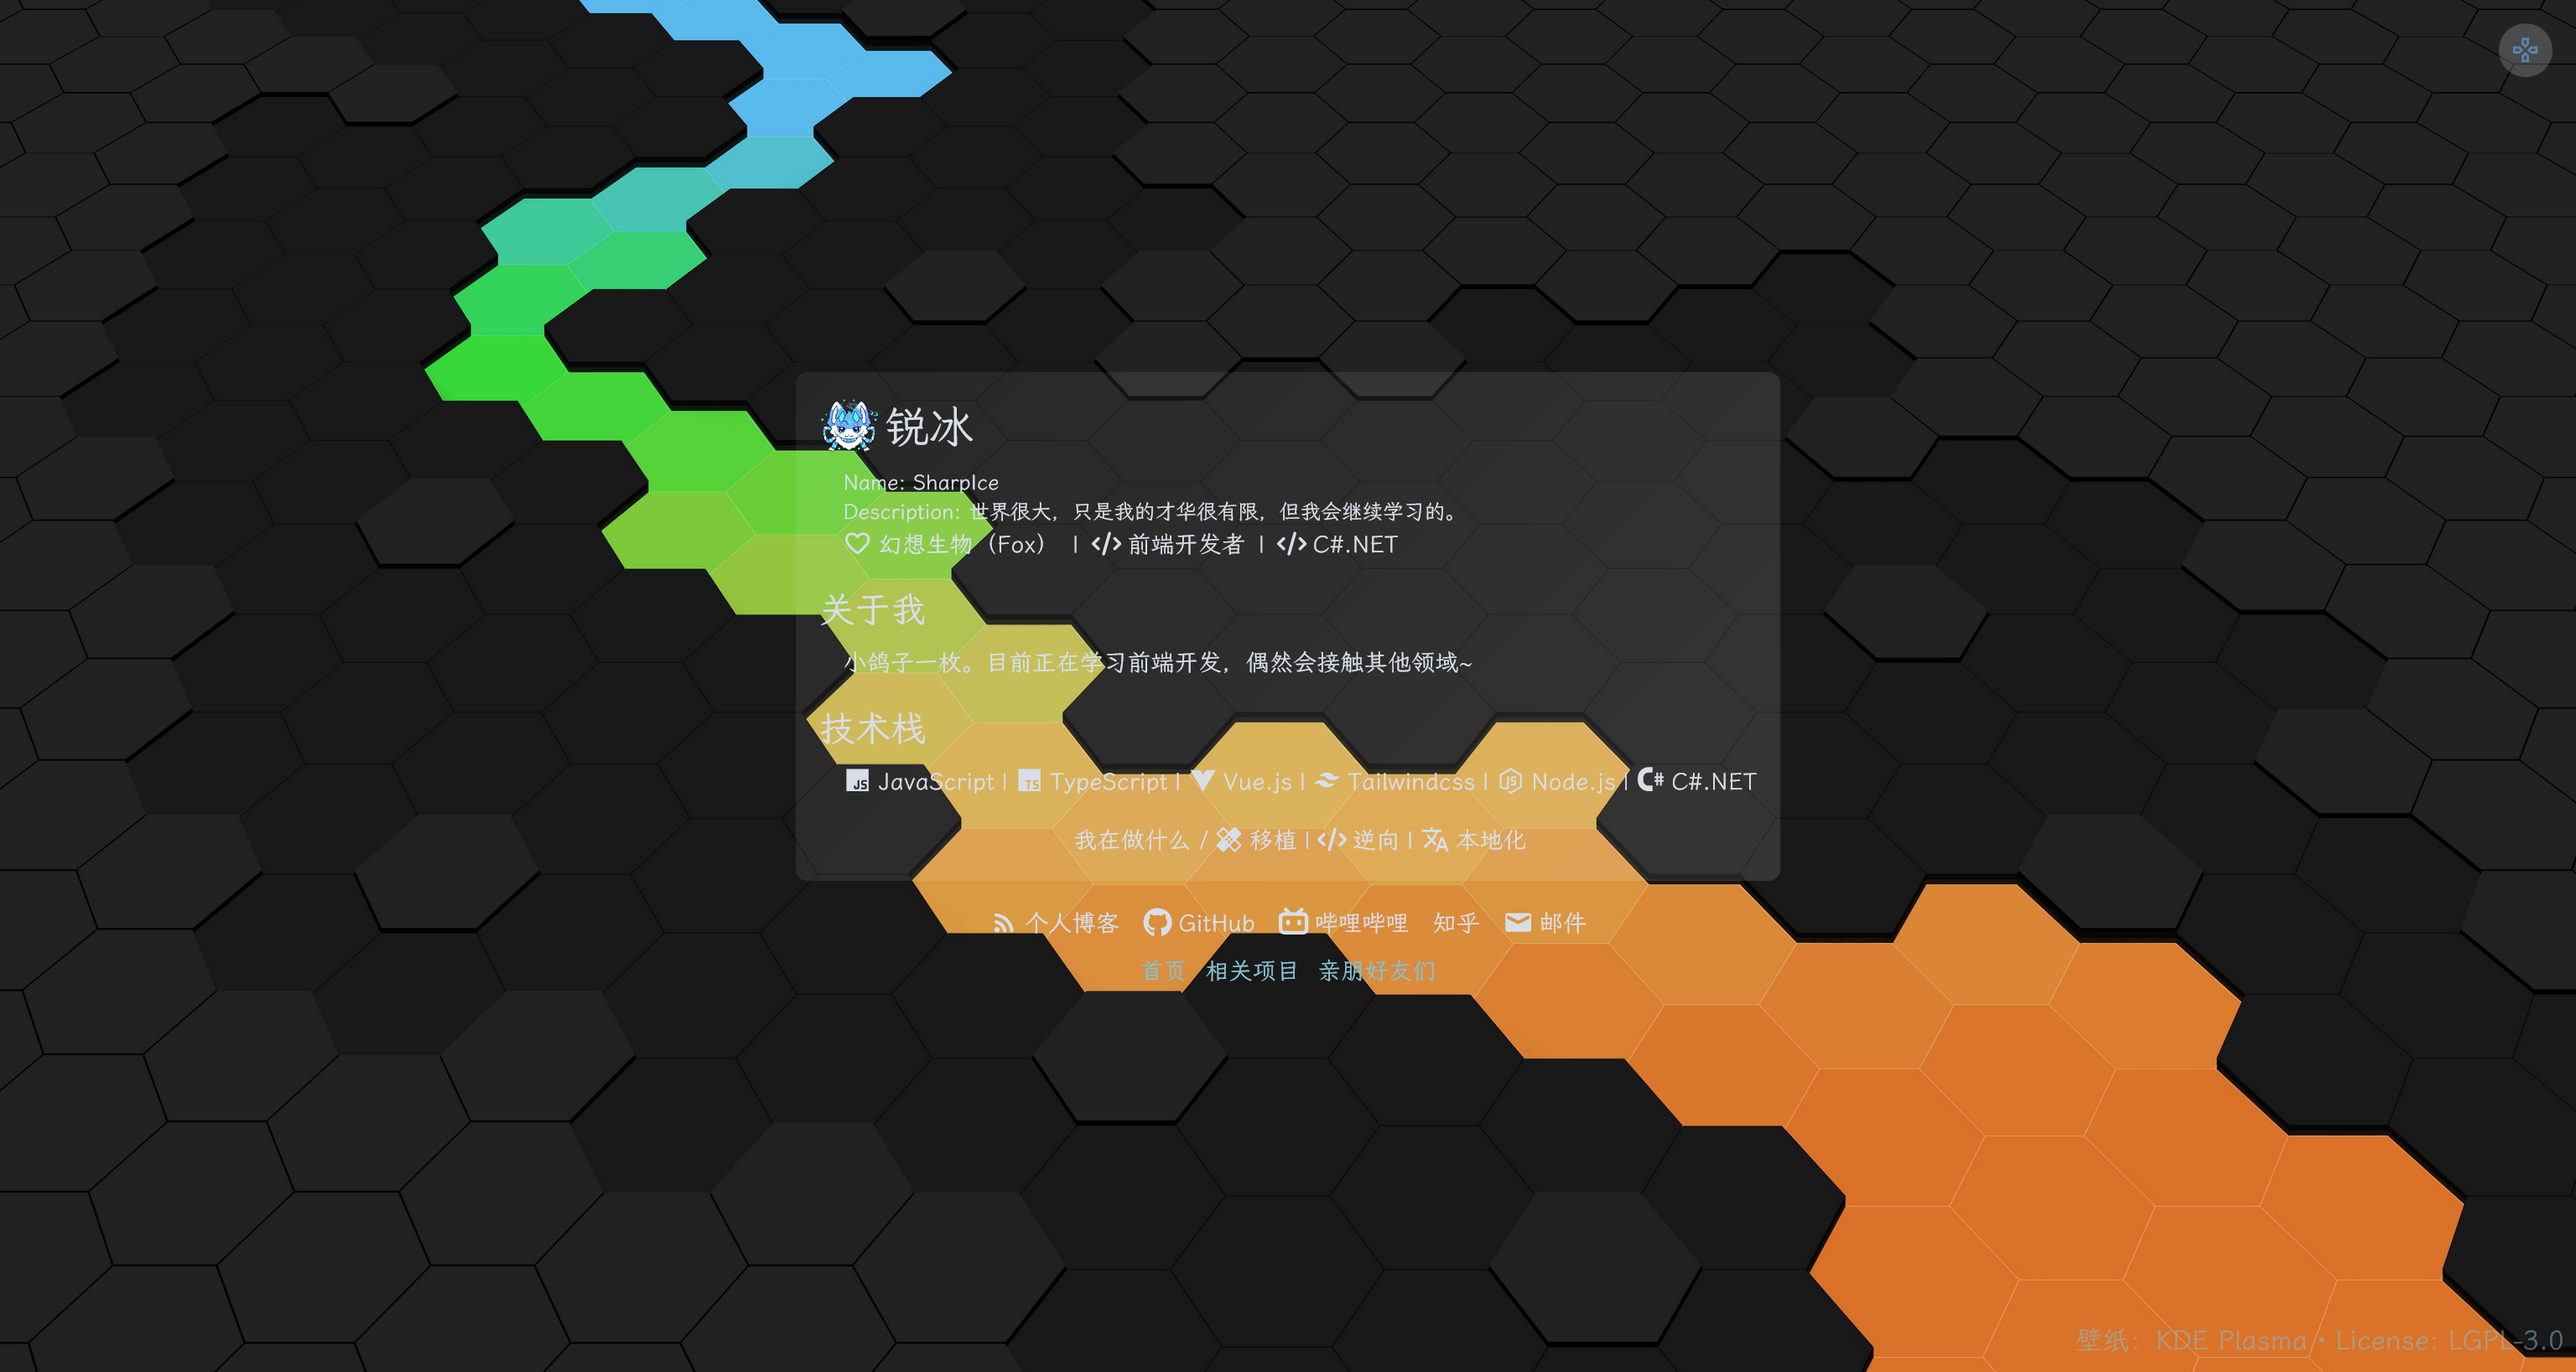
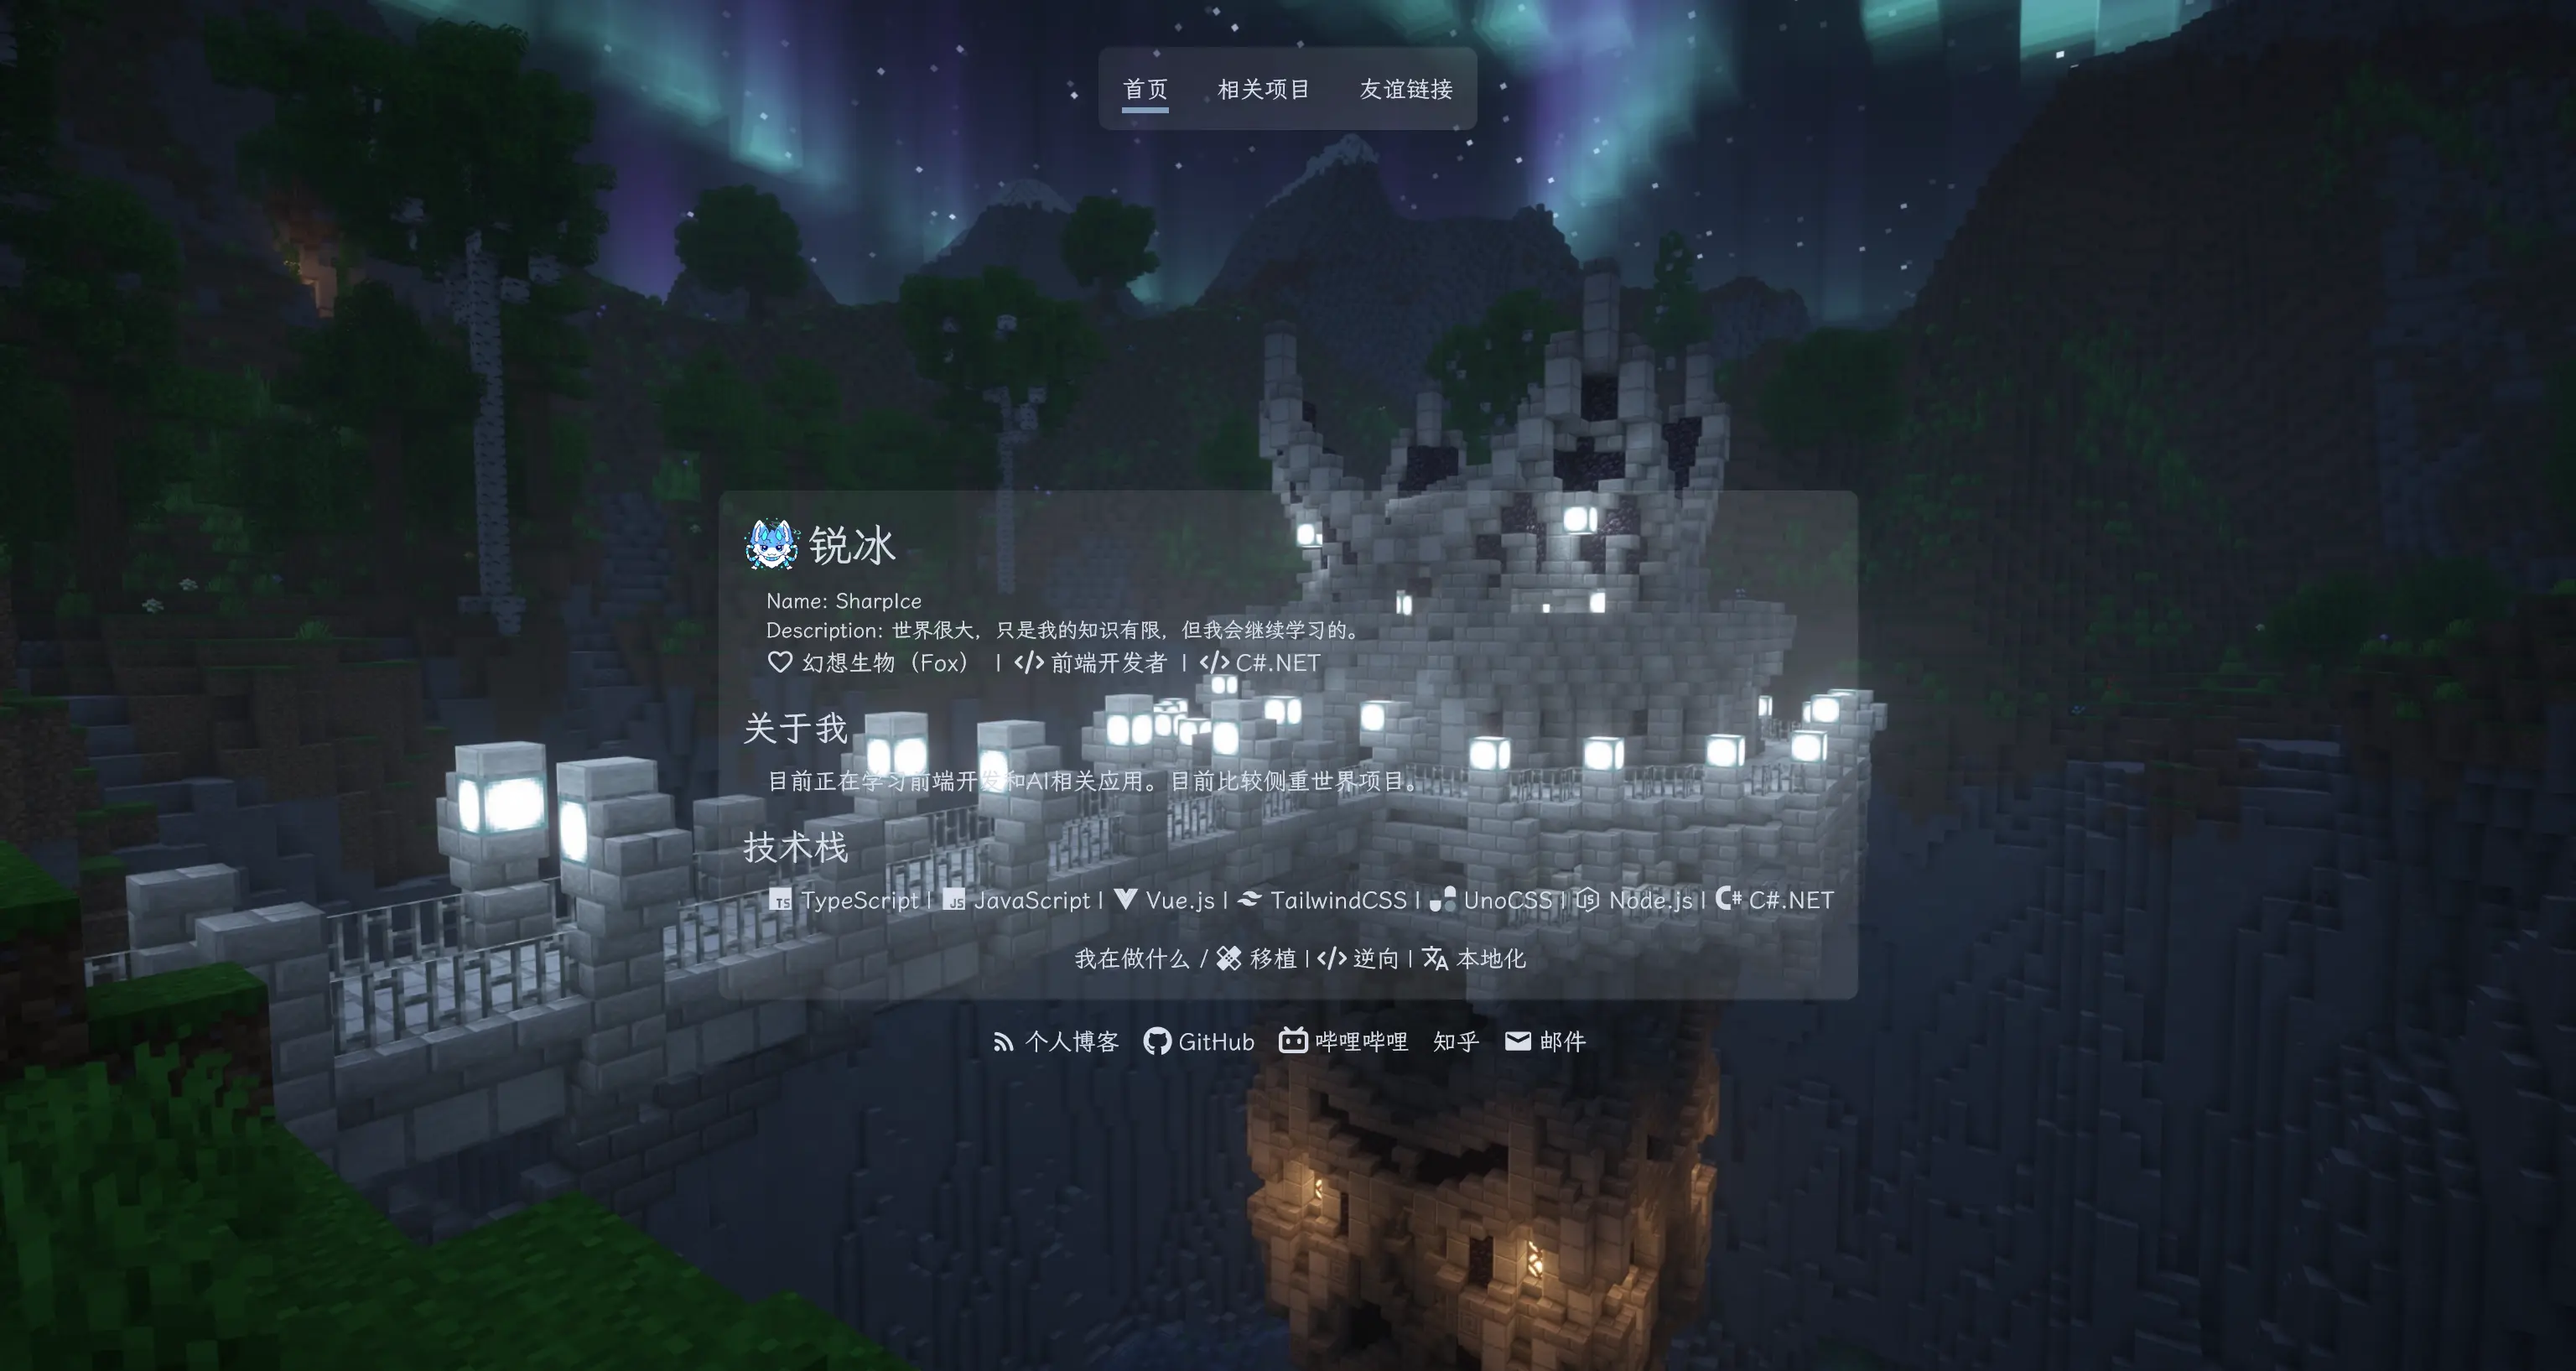
feat: 优化网站性能

diff --git a/src/app/components/header.vue b/src/app/components/header.vue
@@ -1,0 +1,69 @@
+<template>
+	<header class="my-8 flex justify-center">
+		<nav class="advanced-blur-backdrop">
+			<ul class="nav-link flex flex-row items-center justify-center">
+				<li>
+					<router-link class="nav-link" to="/" exact-active-class="nav-link-active"> 首页 </router-link>
+				</li>
+				<li>
+					<router-link class="nav-link" to="/project" exact-active-class="nav-link-active">
+						相关项目
+					</router-link>
+				</li>
+				<li>
+					<router-link class="nav-link" to="/link" exact-active-class="nav-link-active">
+						友谊链接
+					</router-link>
+				</li>
+			</ul>
+		</nav>
+	</header>
+</template>
+
+<script>
+export default {
+	name: 'AppHeader',
+};
+</script>
+
+<style lang="less" scoped>
+@import 'nord/src/lesscss/nord.less';
+
+.nav-link {
+	li {
+		@apply p-4;
+
+		// 悬浮效果
+		transition: color 0.3s ease;
+		&:hover {
+			color: theme('colors.nord10');
+		}
+	}
+}
+.nav-link-active {
+	@apply inline-flex items-center justify-center;
+
+	position: relative;
+
+	&::after {
+		content: '';
+		position: absolute;
+		left: 50%;
+		transform: translateX(-50%);
+		bottom: -0.3rem;
+		width: 100%;
+		height: 4px;
+		background-color: @nord9;
+
+		animation: nav-link-active 0.5s ease-in-out forwards;
+		@keyframes nav-link-active {
+			from {
+				width: 0;
+			}
+			to {
+				width: 100%;
+			}
+		}
+	}
+}
+</style>

diff --git a/src/app/app.vue b/src/app/app.vue
@@ -1,0 +1,53 @@
+<template>
+	<!-- 背景 -->
+	<AppBackground />
+
+	<!-- 游戏推荐小组件 -->
+	<GameRecommendWidgets />
+
+	<!-- 主要内容 -->
+	<div class="flex min-h-screen flex-col">
+		<!-- 导航栏 -->
+		<AppHeader />
+
+		<!-- 主要组件 -->
+		<main class="flex flex-grow items-center justify-center px-4">
+			<router-view v-slot="{ Component }">
+				<transition name="fade" mode="out-in">
+					<component :is="Component" />
+				</transition>
+			</router-view>
+		</main>
+	</div>
+</template>
+
+<script>
+import AppHeader from './components/header.vue';
+import AppBackground from './components/background.vue';
+import GameRecommendWidgets from '../widgets/gameRecommend.vue';
+
+export default {
+	name: 'App',
+	components: {
+		AppHeader,
+		AppBackground,
+		GameRecommendWidgets,
+	},
+};
+</script>
+
+<style lang="less" scoped>
+/* 页面淡入淡出动画 */
+.fade-enter-active,
+.fade-leave-active {
+	transition: opacity 0.7s ease-in-out;
+}
+.fade-enter-from,
+.fade-leave-to {
+	opacity: 0;
+}
+.fade-enter-to,
+.fade-leave-from {
+	opacity: 1;
+}
+</style>

diff --git a/src/pages/link/main.vue b/src/pages/link/main.vue
@@ -4,13 +4,16 @@
 			<li v-for="(link, index) in LinkList" :key="index" class="advanced-blur-backdrop">
 				<a
 					:href="link.url + '?ref=sharpice.top'"
+					target="_blank"
 					:aria-label="'访问' + link.title + '的个人网站'"
-					class="flex items-center h-full">
-					<div class="flex flex-row items-center space-x-4 px-6 py-3 w-80 h-32">
+					class="flex h-full items-center">
+					<div class="flex h-32 w-80 flex-row items-center space-x-4 px-6 py-3">
 						<!-- 普通图片与 svg 组件 -->
 						<div class="avatar-image">
 							<LazyImage
 								v-if="typeof link.image === 'string'"
+								width="80"
+								height="80"
 								:src="link.image"
 								:title="link.title"
 								:alt="link.title + '的头像'" />

diff --git a/src/pages/home/content/technicalStrength.vue b/src/pages/home/content/technicalStrength.vue
@@ -1,6 +1,6 @@
 <template>
 	<div class="space-y-2">
-		<ul class="flex flex-wrap justify-center items-center space-x-1 pl-4">
+		<ul class="flex flex-wrap items-center justify-center space-x-1 pl-4">
 			<li>
 				<p>我在做什么 / </p>
 			</li>
@@ -11,7 +11,7 @@
 			<li class="separation" aria-hidden="true"></li>
 			<li class="flex items-center space-x-1">
 				<codeIcon aria-hidden="true" />
-				<span>逆向</span>
+				<span>开发</span>
 			</li>
 			<li class="separation" aria-hidden="true"></li>
 			<li class="flex items-center space-x-1">

diff --git a/src/components/LazyImage.vue b/src/components/LazyImage.vue
@@ -4,10 +4,8 @@
 			v-if="isLoaded"
 			:src="src"
 			:alt="alt"
-			v-bind="{
-				...(title ? { title } : {}),
-			}"
-			class="w-full h-auto object-cover" />
+			v-bind="{ title, width, height }"
+			class="h-auto w-full object-cover" />
 		<div v-else class="loader"></div>
 	</div>
 </template>
@@ -30,6 +28,14 @@ export default defineComponent({
 		title: {
 			type: String,
 			default: '',
+		},
+		width: {
+			type: Number,
+			default: undefined,
+		},
+		height: {
+			type: Number,
+			default: undefined,
 		},
 	},
 	setup(props) {

diff --git a/src/app/components/background.vue b/src/app/components/background.vue
@@ -1,0 +1,30 @@
+<template>
+	<div class="bg-image advanced-blur-before" aria-hidden="true"></div>
+</template>
+
+<script>
+export default {
+	name: 'AppBackground',
+};
+</script>
+
+<style lang="less" scoped>
+.bg-image::before {
+	inset: 0;
+	opacity: 0;
+	content: '';
+	z-index: -1;
+	position: fixed;
+	animation: bg-fade-in 1s ease-in-out forwards;
+	background: url('/background.webp') center/cover no-repeat;
+
+	@keyframes bg-fade-in {
+		50% {
+			opacity: 0;
+		}
+		100% {
+			opacity: 1;
+		}
+	}
+}
+</style>

diff --git a/eslint.config.ts b/eslint.config.ts
@@ -20,8 +20,7 @@ export default tseslint.config(
 				tsconfigRootDir: import.meta.dirname,
 			},
 			globals: {
-				...globals.node,
-				...globals.browser,
+				...globals['shared-node-browser'],
 			},
 		},
 		rules: {
@@ -36,6 +35,9 @@ export default tseslint.config(
 			parserOptions: {
 				parser: tseslint.parser,
 				extraFileExtensions: ['.vue'],
+			},
+			globals: {
+				...globals.browser,
 			},
 		},
 	},

diff --git a/src/pages/home/main.vue b/src/pages/home/main.vue
@@ -1,7 +1,7 @@
 <template>
 	<main class="flex flex-col justify-center space-y-4">
 		<div
-			class="advanced-blur-backdrop advanced-blur-card space-y-4 rounded-lg p-4 max-md:border-none advanced-blur-backdrop-hover">
+			class="advanced-blur-backdrop advanced-blur-card advanced-blur-backdrop-hover space-y-4 rounded-lg p-4 py-5 max-md:border-none">
 			<!-- 个人信息 -->
 			<infoComponent />
 

diff --git a/src/pages/home/content/aboutMe.vue b/src/pages/home/content/aboutMe.vue
@@ -1,7 +1,7 @@
 <template>
 	<div class="space-y-2">
-		<h2 class="text-2xl">关于我</h2>
-		<p class="pl-4">目前正在学习前端开发和AI相关应用。目前比较侧重世界项目。</p>
+		<h2 class="text-xl">关于我</h2>
+		<p class="pl-4">正在摸索前端开发和AI的各种玩法，目前主要在折腾一个自己的世界观项目。</p>
 	</div>
 </template>
 

diff --git a/src/pages/link/List.ts b/src/pages/link/List.ts
@@ -40,12 +40,6 @@ export default [
 		image: (await import('./avatar/snowlyicewolf.webp')).default,
 	},
 	{
-		title: 'Koto',
-		description: 'Koto的灌水站',
-		url: 'https://koto.cc/',
-		image: (await import('./avatar/Kato.webp')).default,
-	},
-	{
 		title: '中二蘑菇狐狸',
 		description: '一只狐狸敲出的一个奇迹',
 		url: 'https://imfurry.com/',

diff --git a/src/pages/home/content/info.vue b/src/pages/home/content/info.vue
@@ -2,7 +2,7 @@
 	<div class="space-y-2">
 		<div class="flex items-center space-x-1">
 			<img src="/favicon.webp" title="SharpIce" alt="SharpIce的个人头像" width="40" height="40" />
-			<h1 class="text-3xl">锐冰</h1>
+			<h1 class="text-2xl">锐冰</h1>
 		</div>
 		<div class="pl-4">
 			<h2 class="text-sm">Name: SharpIce</h2>

diff --git a/webpack.config.ts b/webpack.config.ts
@@ -221,6 +221,9 @@ export default (env: Record<string, unknown>) => {
 			flagIncludedChunks: true,
 			removeAvailableModules: true,
 			minimize: !isDevelopmentMode,
+			splitChunks: {
+				chunks: 'all',
+			},
 			minimizer: [
 				new fontsMinify({
 					scanPaths: [path.resolve('./src'), path.resolve('./template')],
